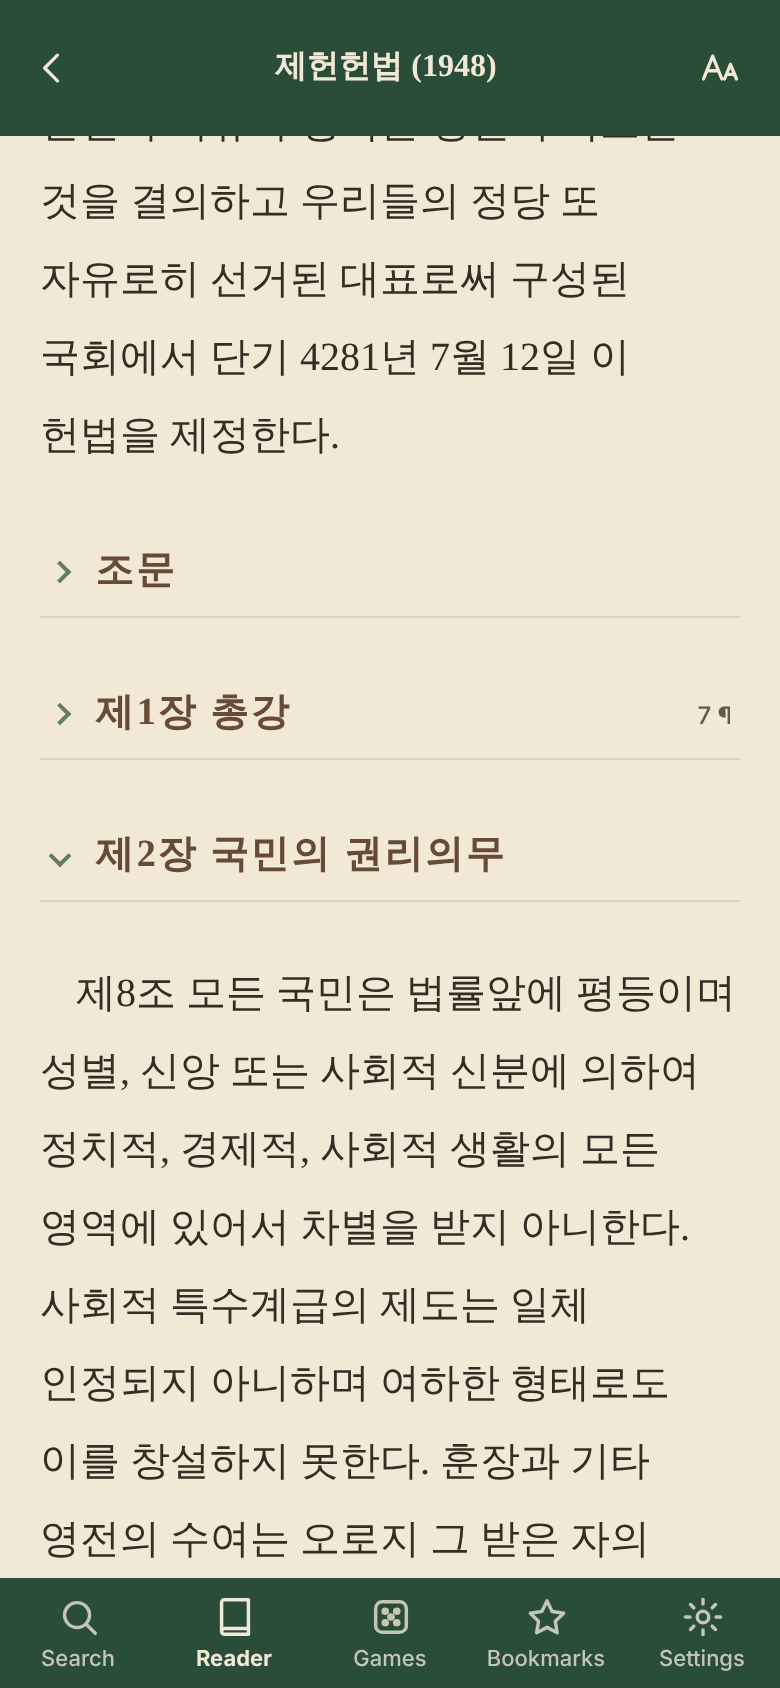
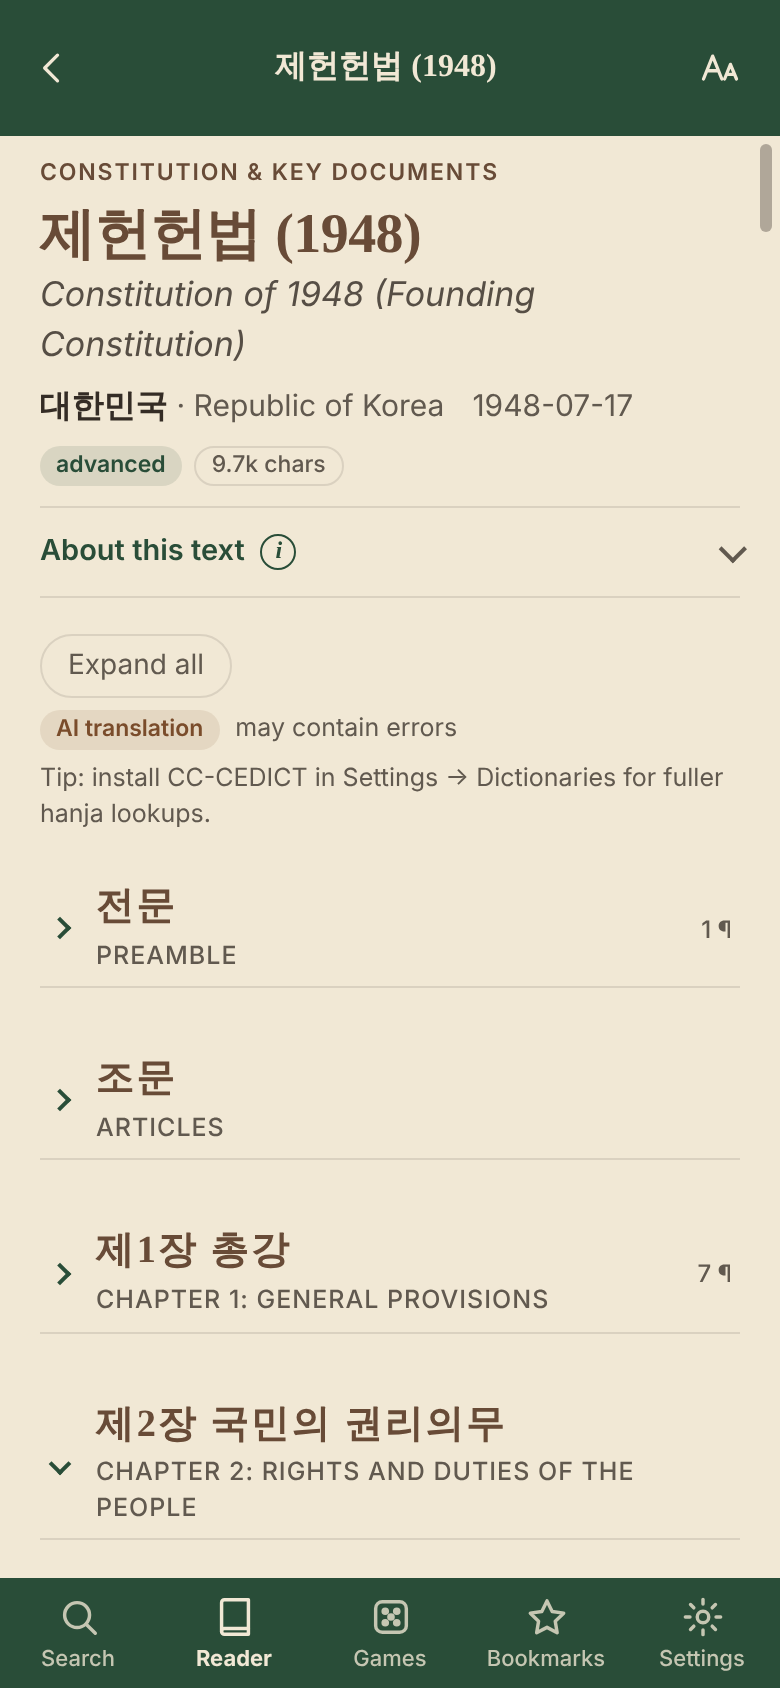
Reader: every section and chapter starts collapsed when a text is opened
Owner's preference: no section is opened automatically (previously the section of the reading
position opened, and the open set was remembered per text). Sections open on tap, Expand all
still opens everything, and a lookup that steps into a closed section still opens it.

Claude-Session: https://claude.ai/code/session_01KdPaeje8PEPnx6eSEhkmxd

diff --git a/app/e2e/reader-chapters.spec.ts b/app/e2e/reader-chapters.spec.ts
@@ -14,9 +14,8 @@ test('reader: collapsible chapters (phone + iPad)', async ({ page }) => {
   const heads = page.locator('.rd-sec-btn');
   await expect(heads.first()).toBeVisible();
   expect(await heads.count()).toBe(16);
-  // first visit: only the first section is open
-  await expect(heads.first()).toHaveAttribute('aria-expanded', 'true');
-  await expect(page.locator('.rd-sec-btn[aria-expanded="true"]')).toHaveCount(1);
+  // every section starts closed
+  await expect(page.locator('.rd-sec-btn[aria-expanded="true"]')).toHaveCount(0);
   const ch2 = page.locator('.rd-sec-btn', { hasText: '제2장' });
   await expect(ch2).toHaveAttribute('aria-expanded', 'false');
   await expect(ch2.locator('.rd-sec-n')).toHaveText(/\d+ ¶/);
@@ -27,17 +26,18 @@ test('reader: collapsible chapters (phone + iPad)', async ({ page }) => {
   await page.waitForTimeout(300);
   await page.screenshot({ path: '../docs/screenshots/reader-chapters-phone.png' });
 
-  // remembered across visits
+  // closed again the next time the text is opened
   await page.goto('/#/reader');
   await page.goto('/#/reader/constitution_1948');
-  await expect(page.locator('.rd-sec-btn', { hasText: '제2장' })).toHaveAttribute('aria-expanded', 'true');
+  await expect(page.locator('.rd-sec-btn[aria-expanded="true"]')).toHaveCount(0);
+  await page.locator('.rd-sec-btn', { hasText: '제2장' }).click();
 
   // expand all / collapse all
   await page.getByRole('button', { name: 'Expand all' }).click();
   await expect(page.locator('.rd-sec-btn[aria-expanded="false"]')).toHaveCount(0);
   await page.getByRole('button', { name: 'Collapse all' }).click();
   await expect(page.locator('.rd-sec-btn[aria-expanded="true"]')).toHaveCount(0);
-  expect(await page.locator('.rd-ko').count()).toBeLessThan(before);
+  expect(await page.locator('.rd-ko').count()).toBe(before);
 
   // a short poem's version headings do not fold
   await page.goto('/#/reader/alsuopseoyo');

diff --git a/app/src/views/TextView.tsx b/app/src/views/TextView.tsx
@@ -7,7 +7,7 @@ import { useWide } from '../lib/layout';
 import { readerPrefs, updatePrefs, getPos, setPos, type ReaderPrefs } from '../lib/reader-prefs';
 import { classOf, extendSpan, nextWordStart, offsetAtPoint, prevWordChar, runAt, shrinkSpan, snapOffset, splitHighlight, type Span } from '../lib/reader-text';
 import { parseNotes, type Inline, type MdBlock } from '../lib/reader-markdown';
-import { headingsOf, hidden, initialOpen, isHeading, loadOpen, saveOpen } from '../lib/reader-sections';
+import { headingsOf, hidden, isHeading } from '../lib/reader-sections';
 import { fmtChars, fmtYear, shelfLabel } from '../lib/reader-library';
 import { groupResults } from '../lib/merge';
 import { LookupCard, type LookupState } from '../components/LookupCard';
@@ -195,8 +195,8 @@ export function TextView({ id }: { id: string }) {
   const headings = useMemo(() => (doc ? headingsOf(doc.paragraphs.map((p) => p.orig)) : []), [doc]);
   const [openSt, setOpenSt] = useState<{ id: string; open: Set<number> } | null>(null);
   const open = openSt && doc && openSt.id === doc.id ? openSt.open
-    : doc ? initialOpen(headings, loadOpen(doc.id), (() => { const p = getPos(doc.id); return p && p.n < BG ? p.n : null; })()) : new Set<number>();
-  const setOpen = (next: Set<number>) => { if (!doc) return; saveOpen(doc.id, next); setOpenSt({ id: doc.id, open: next }); };
+    : new Set<number>();   // every section starts closed each time a text is opened
+  const setOpen = (next: Set<number>) => { if (!doc) return; setOpenSt({ id: doc.id, open: next }); };
   const toggle = (h: number) => { const next = new Set(open); if (next.has(h)) next.delete(h); else next.add(h); setOpen(next); };
   const lastPara = (n: number) => (n >= BG ? BG + (bg?.paragraphs.length ?? 0) : doc!.paragraphs.length) - 1;
   const firstPara = (n: number) => (n >= BG ? BG : 0);

diff --git a/app/src/lib/reader-sections.ts b/app/src/lib/reader-sections.ts
@@ -27,24 +27,3 @@ export const hidden = (headings: number[], open: Set<number>, n: number) => {
   const s = sectionOf(headings, n);
   return s >= 0 && s !== n && !open.has(s);
 };
-
-const KEY = 'kd.reader.open';
-/** Sections the reader left open, per text (null: never opened this text). */
-export function loadOpen(id: string): number[] | null {
-  try { const v = JSON.parse(localStorage.getItem(KEY) || '{}')[id]; return Array.isArray(v) ? v.filter((x) => Number.isInteger(x)) : null; } catch { return null; }
-}
-export function saveOpen(id: string, open: Iterable<number>): void {
-  try {
-    const all = JSON.parse(localStorage.getItem(KEY) || '{}');
-    all[id] = [...open].sort((a, b) => a - b);
-    localStorage.setItem(KEY, JSON.stringify(all));
-  } catch { /* storage unavailable */ }
-}
-
-/** First visit: only the section holding the reading position (or the first section) is open. */
-export function initialOpen(headings: number[], saved: number[] | null, posN: number | null): Set<number> {
-  if (!headings.length) return new Set();
-  if (saved) return new Set(saved.filter((h) => headings.includes(h)));
-  const s = posN != null ? sectionOf(headings, posN) : -1;
-  return new Set([s >= 0 ? s : headings[0]]);
-}

diff --git a/app/src/lib/reader-sections.test.ts b/app/src/lib/reader-sections.test.ts
@@ -1,5 +1,5 @@
 import { describe, expect, it } from 'vitest';
-import { headingsOf, hidden, initialOpen, sectionOf } from './reader-sections';
+import { headingsOf, hidden, sectionOf } from './reader-sections';
 
 const long = (t: string) => t + '가'.repeat(1000);
 const doc = ['intro', '## 1', long('a'), long('b'), '## 2', long('c'), '## 3'];
@@ -20,13 +20,5 @@ describe('reader sections', () => {
     const h = headingsOf(doc);
     const open = new Set([4]);
     expect([0, 1, 2, 3, 4, 5, 6].map((n) => hidden(h, open, n))).toEqual([false, false, true, true, false, false, false]);
-  });
-  it('opens the section of the reading position on a first visit, else the saved set', () => {
-    const h = headingsOf(doc);
-    expect([...initialOpen(h, null, null)]).toEqual([1]);
-    expect([...initialOpen(h, null, 5)]).toEqual([4]);
-    expect([...initialOpen(h, null, 0)]).toEqual([1]);
-    expect([...initialOpen(h, [4, 6, 99], 2)]).toEqual([4, 6]);
-    expect([...initialOpen([], null, 2)]).toEqual([]);
   });
 });
